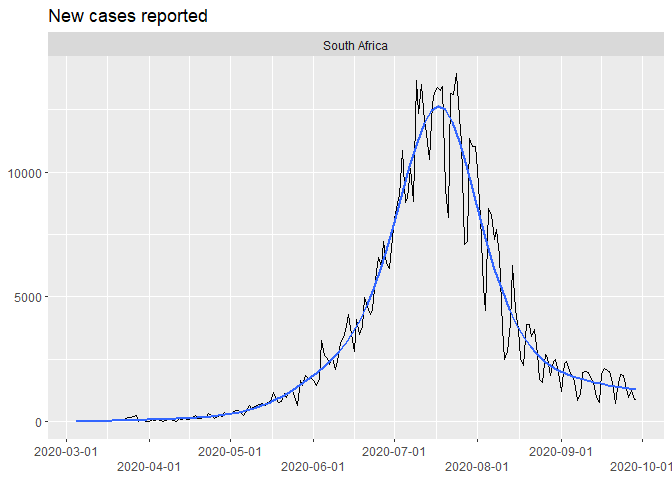
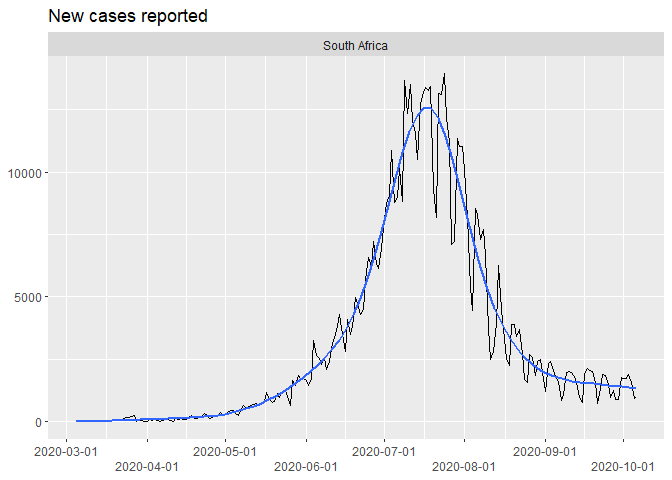
Refresh

Changed region(s): [[0.3438, 0.1562, 0.9375, 0.875], [0.1562, 0.9062, 1.0, 1.0], [0.2812, 0.8438, 0.3125, 0.875]]

diff --git a/README.md b/README.md
@@ -20,7 +20,7 @@ The data source is [a repository maintained by Johns Hopkins
 University](https://github.com/CSSEGISandData/COVID-19). The data is
 updated once per day.
 
-Last updated at 2020-09-30 05:05:14
+Last updated at 2020-10-07 05:43:54
 
 Total cases
 -----------
@@ -29,16 +29,16 @@ Total cases
     #> # Groups:   country [1]
     #>    country      date         lat  long  cases
     #>    <chr>        <date>     <dbl> <dbl>  <dbl>
-    #>  1 South Africa 2020-09-20 -30.6  22.9 661211
-    #>  2 South Africa 2020-09-21 -30.6  22.9 661936
-    #>  3 South Africa 2020-09-22 -30.6  22.9 663282
-    #>  4 South Africa 2020-09-23 -30.6  22.9 665188
-    #>  5 South Africa 2020-09-24 -30.6  22.9 667049
-    #>  6 South Africa 2020-09-25 -30.6  22.9 668529
-    #>  7 South Africa 2020-09-26 -30.6  22.9 669498
-    #>  8 South Africa 2020-09-27 -30.6  22.9 670766
-    #>  9 South Africa 2020-09-28 -30.6  22.9 671669
-    #> 10 South Africa 2020-09-29 -30.6  22.9 672572
+    #>  1 South Africa 2020-09-27 -30.6  22.9 670766
+    #>  2 South Africa 2020-09-28 -30.6  22.9 671669
+    #>  3 South Africa 2020-09-29 -30.6  22.9 672572
+    #>  4 South Africa 2020-09-30 -30.6  22.9 674339
+    #>  5 South Africa 2020-10-01 -30.6  22.9 676084
+    #>  6 South Africa 2020-10-02 -30.6  22.9 677833
+    #>  7 South Africa 2020-10-03 -30.6  22.9 679716
+    #>  8 South Africa 2020-10-04 -30.6  22.9 681289
+    #>  9 South Africa 2020-10-05 -30.6  22.9 682215
+    #> 10 South Africa 2020-10-06 -30.6  22.9 683242
 
 ### Linear scale
 
@@ -75,16 +75,16 @@ Total number of deaths
     #> # Groups:   country [1]
     #>    country      date       deaths
     #>    <chr>        <date>      <dbl>
-    #>  1 South Africa 2020-09-20  15953
-    #>  2 South Africa 2020-09-21  15992
-    #>  3 South Africa 2020-09-22  16118
-    #>  4 South Africa 2020-09-23  16206
-    #>  5 South Africa 2020-09-24  16283
-    #>  6 South Africa 2020-09-25  16312
-    #>  7 South Africa 2020-09-26  16376
-    #>  8 South Africa 2020-09-27  16398
-    #>  9 South Africa 2020-09-28  16586
-    #> 10 South Africa 2020-09-29  16667
+    #>  1 South Africa 2020-09-27  16398
+    #>  2 South Africa 2020-09-28  16586
+    #>  3 South Africa 2020-09-29  16667
+    #>  4 South Africa 2020-09-30  16734
+    #>  5 South Africa 2020-10-01  16866
+    #>  6 South Africa 2020-10-02  16909
+    #>  7 South Africa 2020-10-03  16938
+    #>  8 South Africa 2020-10-04  16976
+    #>  9 South Africa 2020-10-05  17016
+    #> 10 South Africa 2020-10-06  17103
 
 ### Linear scale
 
